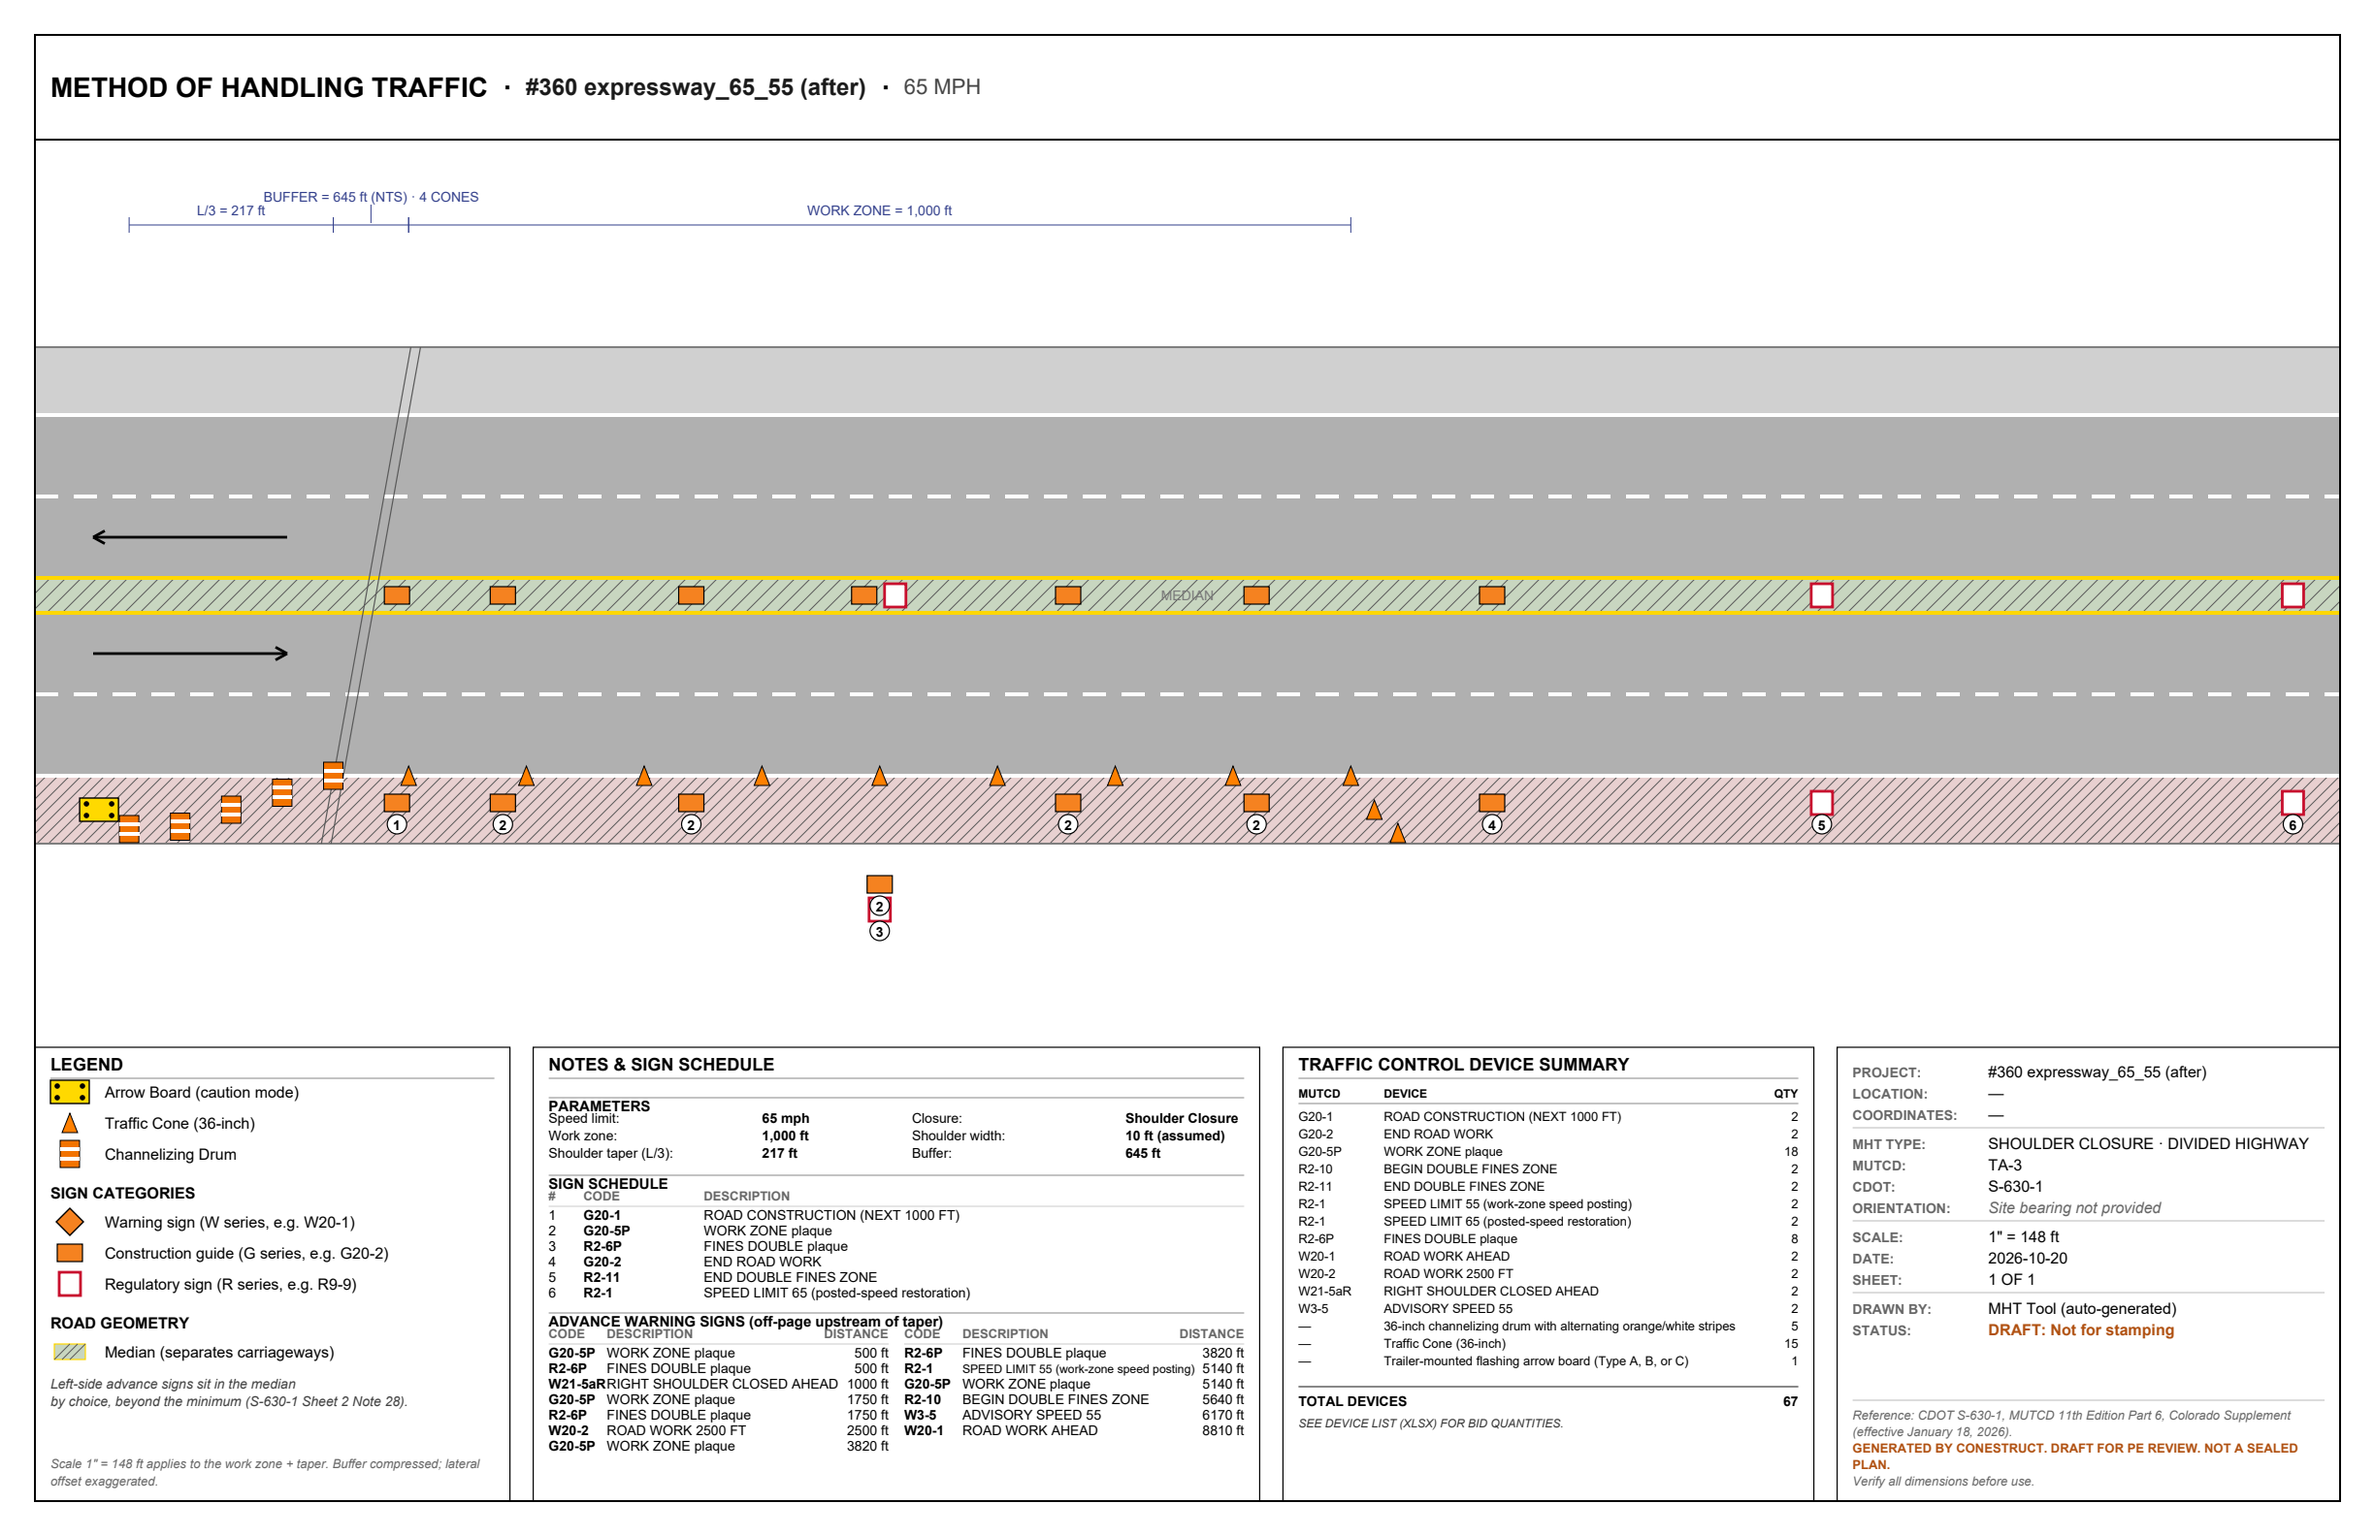
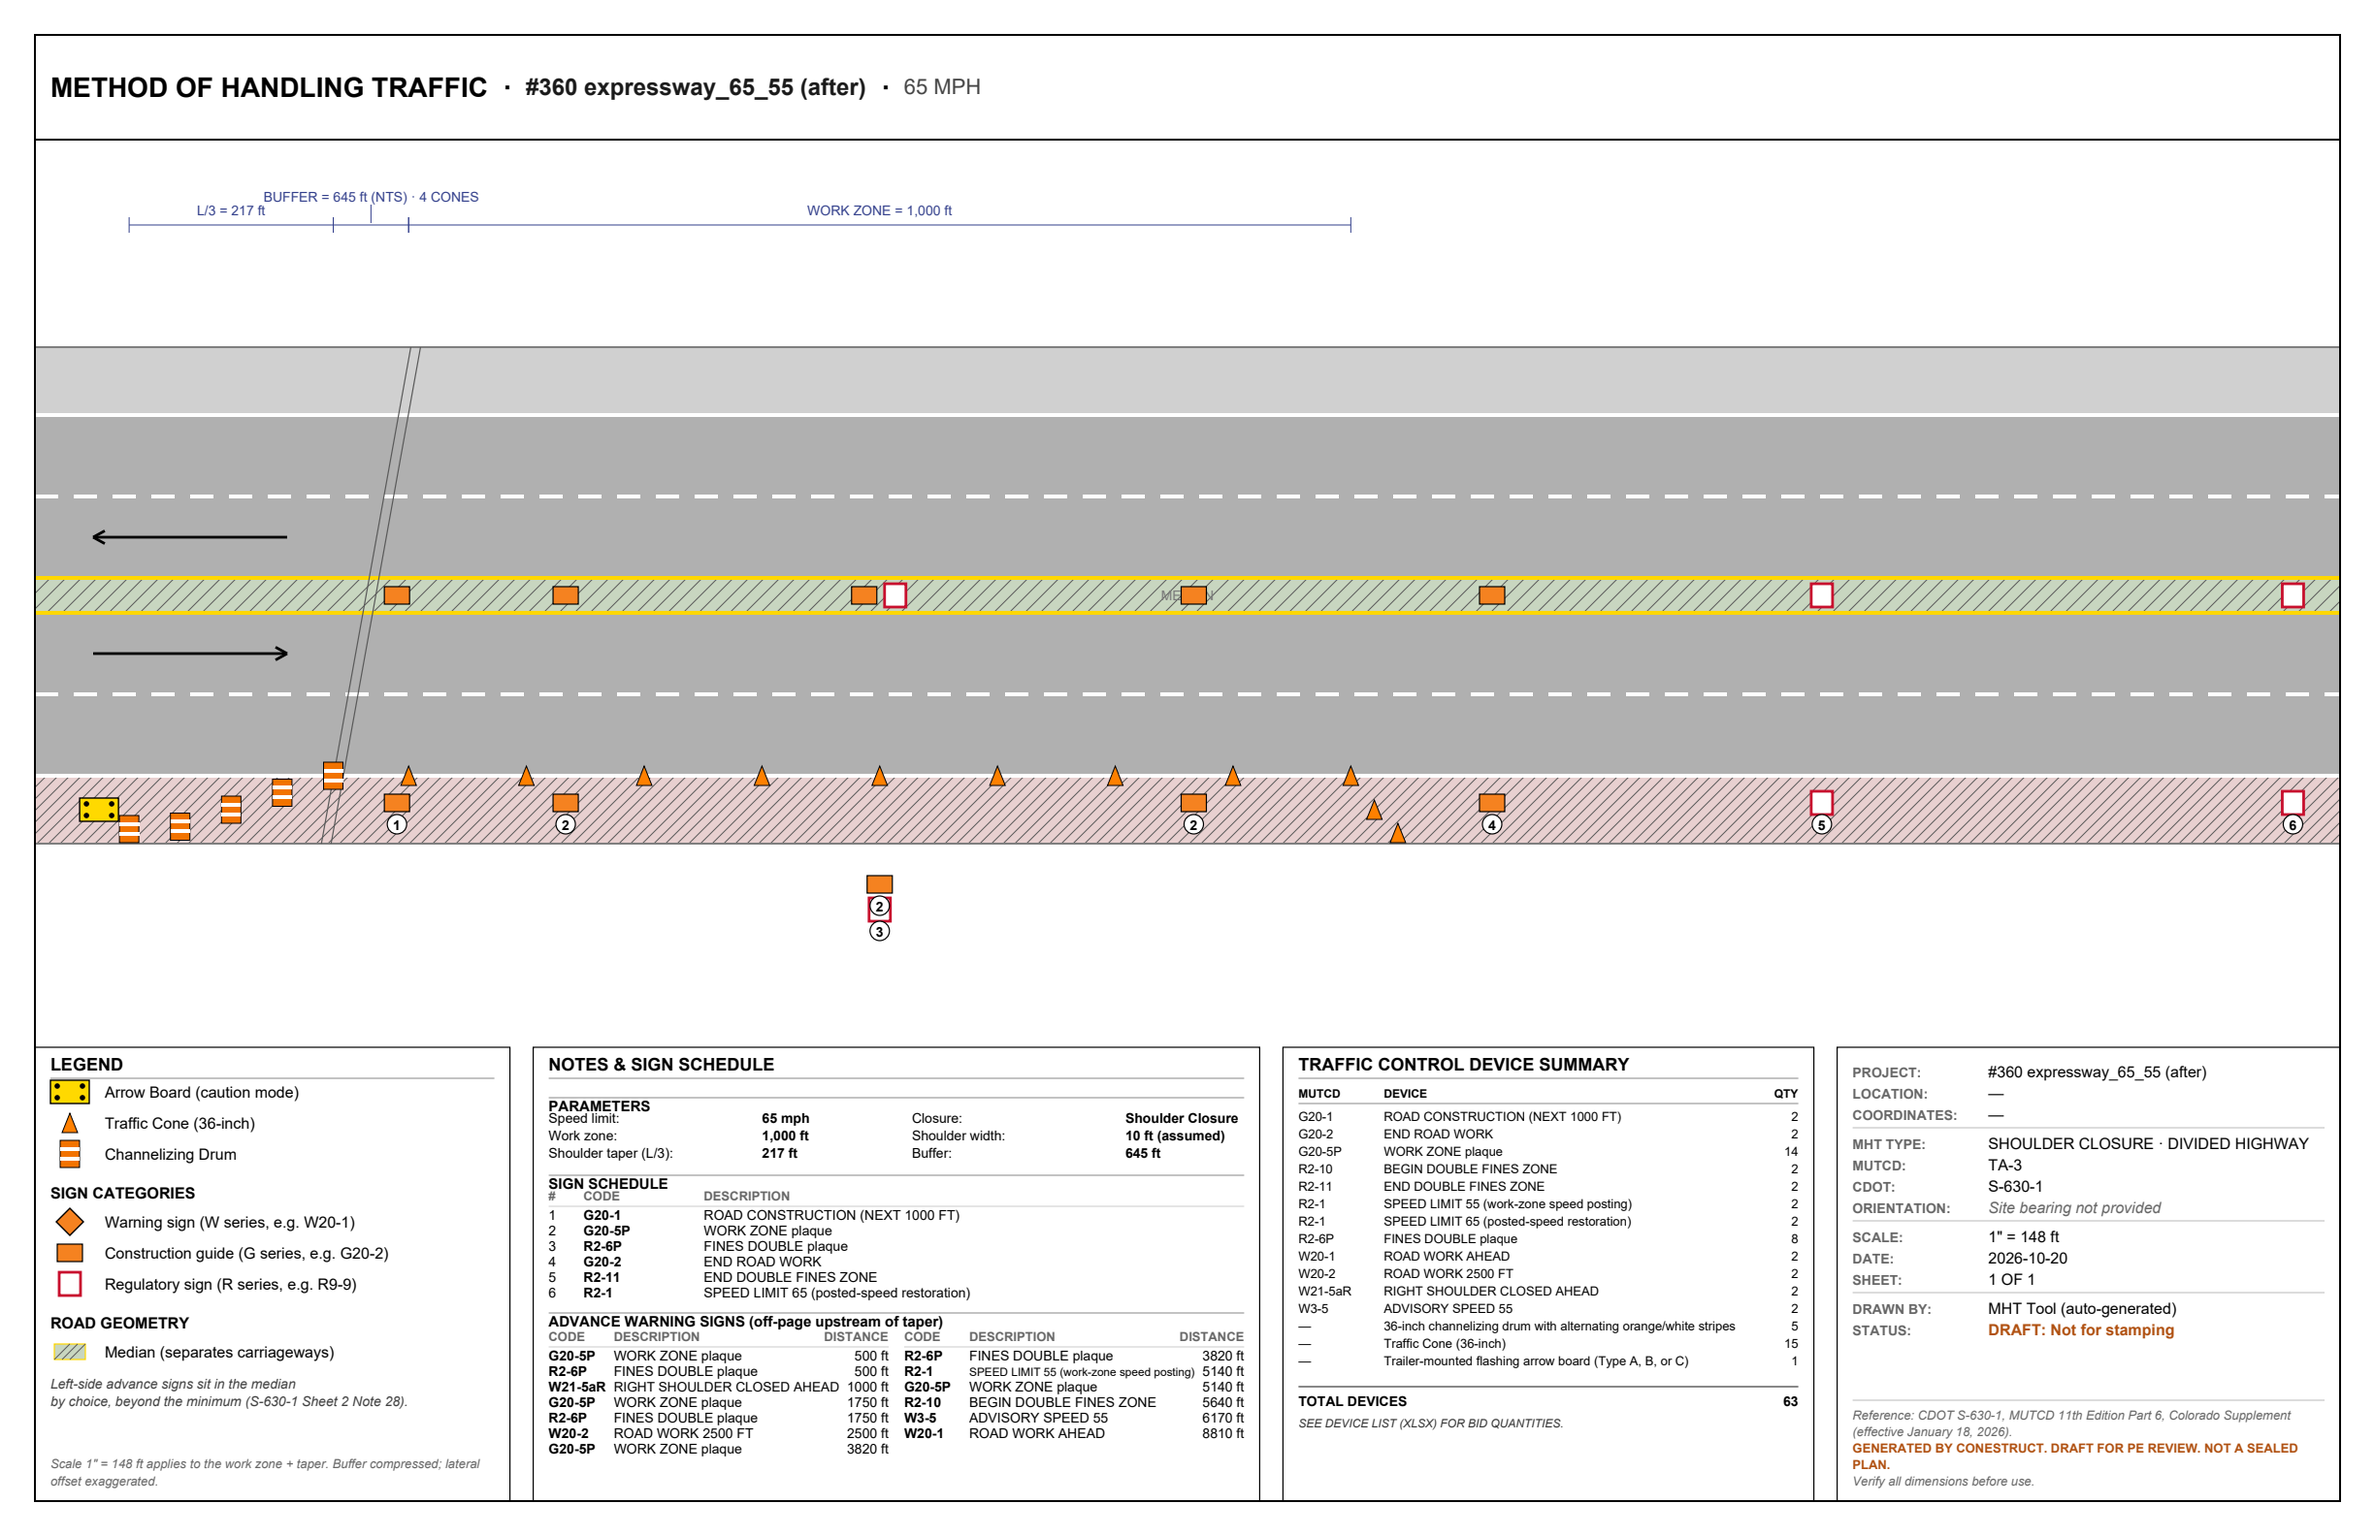
fix(#360, R6): the page-1 advance title clears its two-column headers; after renders re-made from current code
Ryan's review of 001ee3a: the committed after renders still showed
"W21-5aR" touching its description and the "ADVANCE WARNING SIGNS
(off-page upstream of taper)" title on the column headers.

- The renders were stale: made at 11:15, before R4's code-column fix
  (11:21) and R3's in-zone plaque count. All four are re-rendered and
  checked by eye (whole page plus a crop of each notes box).
- The title overlap was real, and already on Case 26 sheets at base:
  R117 Q3c's 10 pt two-column pad put the bold 7.5 title's descenders
  (1.56 pt) 0.30 pt into the bold 6.5 header caps (4.67 pt). 1.5 pt more
  under the advance title only (1.27 pt clear); every other header keeps
  Q3c's 10 pt, and Case 11 55->45 keeps all 14 rows.
- New rendered-output test reads page-1 glyph boxes (title vs headers,
  code vs description, description vs distance); red on 001ee3a and base.
- adv-shoulder now shows all 9 advance rows (its conflict notes collapse
  to the aggregate line one step earlier); the footer cut-line coverage
  check needs >= 1 cut line among the fixtures instead of >= 2.

Tests: 3444 passed, 2 skipped. diff-verifier: VERDICT: PASS (872300aa3359).

Refs #360

diff --git a/tests/s630/test_advance_anchoring_360.py b/tests/s630/test_advance_anchoring_360.py
@@ -23,6 +23,7 @@ from __future__ import annotations
 import itertools
 from typing import Any
 
+import pypdfium2 as pdfium
 import pytest
 from fastapi.testclient import TestClient
 
@@ -32,6 +33,7 @@ from src.generation.layout import (
     generate_shoulder_closure_undivided,
     shoulder_speed_group,
 )
+from src.rendering.plan_sheet import render_plan_sheet
 from src.rules.devices import DeviceType
 from src.rules.spacing import advance_warning_spacing, co_construction_plaques
 from src.rules.validators import DevicePlacement, ScenarioParams
@@ -250,3 +252,59 @@ def test_in_zone_plaques_keep_their_stations(road: str, speed: int, wz: int) -> 
     in_zone = {round(st, 6) for st in _stations(placements, "G20-5P") if st <= 1000.0}
     assert set(series) <= in_zone
     assert len(in_zone - set(series)) <= 2  # the envelope's in-zone assemblies
+
+
+def _glyph_boxes(pdf_path: str) -> tuple[str, list[tuple[float, float, float, float]]]:
+    """Page 1's text and each character's (left, bottom, right, top) box."""
+    doc = pdfium.PdfDocument(pdf_path)
+    try:
+        tp = doc[0].get_textpage()
+        n = tp.count_chars()
+        return tp.get_text_range(0, n), [tp.get_charbox(i) for i in range(n)]
+    finally:
+        doc.close()
+
+
+def _span(text: str, boxes: list, needle: str, start: int = 0) -> tuple[int, tuple[float, ...]]:
+    """The first ``needle`` at or after ``start``: its index and union box,
+    ignoring spaces (whose boxes are degenerate)."""
+    i = text.index(needle, start)
+    bs = [boxes[k] for k in range(i, i + len(needle)) if not text[k].isspace()]
+    return i, (
+        min(b[0] for b in bs),
+        min(b[1] for b in bs),
+        max(b[2] for b in bs),
+        max(b[3] for b in bs),
+    )
+
+
+@pytest.mark.parametrize(
+    "params",
+    [
+        _params("freeway", 55, 45, 1000.0, True),  # Case 11, 14 rows
+        _params("freeway", 65, 60, 1000.0, True),  # Case 26 (the overlap shipped there)
+    ],
+    ids=["case-11-55-45", "case-26"],
+)
+def test_page1_two_column_table_text_never_touches(params: ScenarioParams, tmp_path: Any) -> None:
+    """R4 + the title fix, read off the rendered glyphs (Rule 11): the code
+    clears its description, the entrance R2-1's description clears its
+    distance, and the advance title's descenders clear the column headers."""
+    pdf = str(tmp_path / "p1.pdf")
+    render_plan_sheet(generate_shoulder_closure_divided(params), params, output_path=pdf)
+    text, boxes = _glyph_boxes(pdf)
+    t0 = text.index("ADVANCE WARNING SIGNS")
+    # Title "(off-page upstream of taper)" vs the header row under it.
+    _, title = _span(text, boxes, "(off-page upstream of taper)", t0)
+    h_at, header = _span(text, boxes, "DISTANCE", t0)
+    assert title[1] - header[3] >= 1.0, (title, header)
+    # Every "W21-5aR" row: the code ends before its description starts.
+    at = h_at
+    while (at := text.find("W21-5aR", at + 1)) != -1:
+        _, code = _span(text, boxes, "W21-5aR", at)
+        _, desc = _span(text, boxes, "RIGHT SHOULDER CLOSED AHEAD", at)
+        assert desc[0] - code[2] >= 2.0, (code, desc)
+    # The entrance R2-1's description ends before its distance starts.
+    d_at, desc = _span(text, boxes, "(work-zone speed posting)", h_at)
+    dist_left = min(boxes[k][0] for k in range(d_at, text.index(" ft", d_at)) if text[k].isdigit())
+    assert dist_left - desc[2] >= 2.0, (desc, dist_left)

diff --git a/src/rendering/plan_sheet.py b/src/rendering/plan_sheet.py
@@ -3428,7 +3428,8 @@ def _notes_layout(schedule_rows: int, advance_rows: int) -> _NotesLayout:
     # footer_pads[1] is the pitch of the 6.5 pt bold footer lines: 7 pt.
     # Both on one-column tables only (Q3c: "extra spacing only on
     # one-column tables; Case 27 keeps its 4 rows") -- a two-column table
-    # keeps the tighter 10 / 6, the room its long table needs.  Two
+    # keeps the tighter 10 / 6, the room its long table needs (#360 adds
+    # 1.5 pt under the advance title alone; see its section_header call).  Two
     # columns only when the advance table itself is long (> 6 rows); a
     # short table split in two only doubled its column headers.
     total = schedule_rows + advance_rows
@@ -3741,7 +3742,7 @@ def _draw_notes(
         """
         y = [FOOTER_H - 24]
 
-        def section_header(title: str) -> None:
+        def section_header(title: str, extra_gap: float = 0.0) -> None:
             y[0] -= layout.section_header_pad[0]
             cv.setStrokeColor(colors.HexColor("#888888"))
             cv.setLineWidth(0.4)
@@ -3751,7 +3752,7 @@ def _draw_notes(
             cv.setFillColor(colors.black)
             cv.setFont("Helvetica-Bold", 7.5)
             cv.drawString(x, y[0] - 4, title)
-            y[0] -= layout.section_header_pad[1]
+            y[0] -= layout.section_header_pad[1] + extra_gap
 
         def column_header(label: str, x_pos: float, align: str = "left") -> None:
             cv.setFont("Helvetica-Bold", 6.5)
@@ -3896,7 +3897,11 @@ def _draw_notes(
                 cv.drawString(x, y[0], line)
                 y[0] -= layout.row_pitch
             return _finish(cv, y)
-        section_header(advance_section_title)
+        # #360: the advance title is the one with descenders ("(", "p",
+        # 1.56 pt at bold 7.5); two-column mode's 10 pt pad set it 6 pt above
+        # the 6.5 pt bold column headers (4.67 pt caps), so they touched.
+        # 1.5 pt more leaves 1.27 pt clear; one-column mode's 12 already does.
+        section_header(advance_section_title, 1.5 if layout.two_col_advance else 0.0)
         capped_advance = advance[:advance_cap]
         if layout.two_col_advance:
             _draw_advance_table_two_column(cv, capped_advance, x, x_right, y, layout, column_header)

diff --git a/tests/test_plan_sheet_footer_235.py b/tests/test_plan_sheet_footer_235.py
@@ -93,7 +93,10 @@ def test_every_cut_line_names_its_codes(client: TestClient, tmp_path: Path) -> N
         doc.close()
         assert flat.count("MORE ADVANCE SIGNS") == flat.count("MORE ADVANCE SIGNS ("), name
         seen += flat.count("MORE ADVANCE SIGNS (")
-    assert seen >= 2  # adv-flagger and adv-shoulder print a cut line today
+    # adv-flagger prints a cut line today.  #360: adv-shoulder no longer
+    # does -- its 9 advance rows all fit once its conflict notes collapse to
+    # the aggregate "ADOPTED-SOURCE CONFLICTS" line one step earlier.
+    assert seen >= 1
 
 
 def test_typical_title_blocks_keep_the_11pt_pitch() -> None:

diff --git a/validation-artifacts/committed/issue-360-advance-anchoring/rulings.md b/validation-artifacts/committed/issue-360-advance-anchoring/rulings.md
@@ -45,3 +45,8 @@
 - **R3 (R145 self-ruled, under Q3 "in-zone plaques keep today's stations"):** the in-zone G20-5P series (generator step 5) is still counted from W20-1's former station (`construction_plaque_zone_length`), in both generators and the audit's plaque check. Without this, moving W20-1 out grew the series (expressway 65→55: 3 → 5 plaques, 200 ft apart in 1,000 ft of work).
 - **R4 (R145 self-ruled):** the page-1 two-column advance table no longer overlaps its own text. The DESCRIPTION column starts at least 4 pt past the widest code ("W21-5aR" ran into its description), and a description wider than its column shrinks until it clears its distance by 4 pt, floored at 5.5 pt ("SPEED LIMIT XX (work-zone speed posting)" ran into its distance). Both overlaps already shipped on Case 26/27 sheets; #360 puts the R2-1 off-page on every reduced-speed shoulder plan. A table whose rows already fit is drawn as before.
 - **R5 (R145 self-ruled):** the entrance R2-1 validator bounds the entrance by R2-10 on every shoulder plan except near-intersection plans. When R2-10 is missing it falls back to "anywhere upstream", so MISSING_R2_10 isn't doubled by MISSING_R2_1_ENTRANCE. The Sheet 14 branch is unchanged.
+- **R6 (Ryan's review of `001ee3a`, 2026-10-20: "Fix both"):**
+  - The committed after renders were stale. They were made at 11:15; R4's code-column fix landed at 11:21, and they weren't re-rendered.
+  - Separately, the "ADVANCE WARNING SIGNS (off-page upstream of taper)" title touched the two-column headers. R117 Q3c's 10 pt two-column pad sets the 7.5 pt bold title's descenders (1.56 pt) 6 pt above the 6.5 pt bold header caps (4.67 pt), 0.30 pt into them; this was already on Case 26 sheets at base.
+  - Fix: 1.5 pt more under the advance title only (1.27 pt clear). Q3c's 10 pt stays for every other two-column section header, none of which has descenders.
+  - Applying it to all section headers cost Case 11 55→45 a row pair (R2-10, W3-5 and W20-1 fell into "+4 MORE"). The advance-title-only fix keeps all 14 rows.
